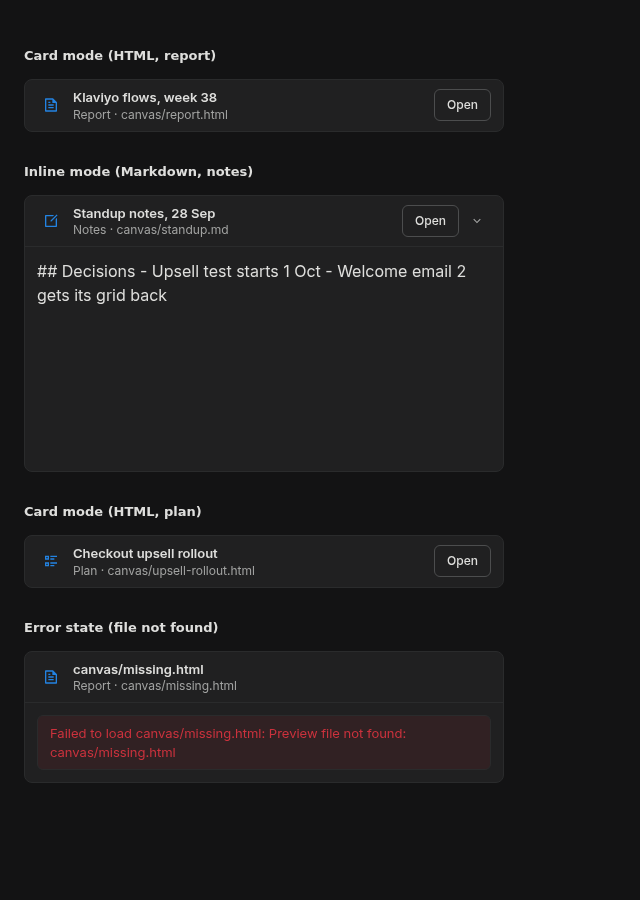
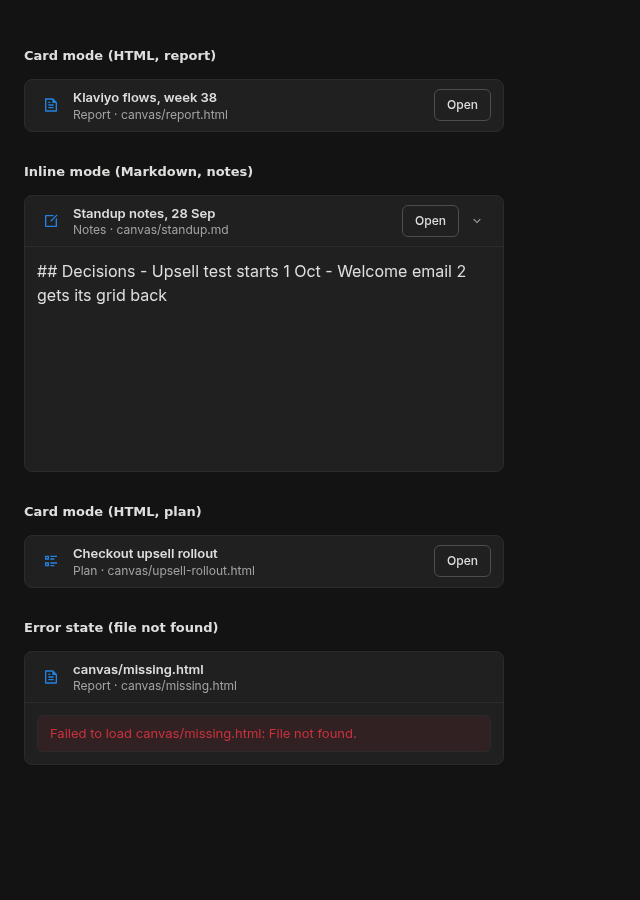
Re-sync canvas example fixtures and stop repeating the filename in errors
Re-copies plan.html, report.html, and mockup.html from the handed-off
skill package (kit.css, canvas-style.md, and SKILL.md already matched)
so the credits footer renders styled. Server errors (unsupported
extension, absolute/traversal/escaping paths, 404) no longer repeat the
file path — the client's "Failed to load <file>: <message>" wrapper
already names it once.

Changed region(s): [[0.0625, 0.8089, 0.75, 0.8711]]

diff --git a/plugins/canvas/server.ts b/plugins/canvas/server.ts
@@ -45,7 +45,7 @@ function previewKind(file: string): PreviewKind {
   const kind = PREVIEW_KIND_BY_EXTENSION.get(extension);
   if (kind === undefined) {
     throw new Error(
-      `"file" must end with .html, .htm, .md, or .markdown, got ${JSON.stringify(file)}`,
+      `"file" must end with .html, .htm, .md, or .markdown.`,
     );
   }
   return kind;
@@ -54,14 +54,14 @@ function previewKind(file: string): PreviewKind {
 export function requireRelativePreviewFile(value: unknown): string {
   const file = requireNonEmptyString(value, "file");
   if (path.isAbsolute(file)) {
-    throw new Error(`"file" must be source-relative, not absolute: ${file}`);
+    throw new Error(`"file" must be source-relative, not absolute.`);
   }
   if (/^[a-zA-Z]:[\\/]/.test(file) || file.startsWith("\\\\")) {
-    throw new Error(`"file" must be source-relative, not absolute: ${file}`);
+    throw new Error(`"file" must be source-relative, not absolute.`);
   }
   const slashNormalized = file.replace(/\\/g, "/");
   if (slashNormalized.split("/").includes("..")) {
-    throw new Error(`"file" must not contain traversal segments: ${file}`);
+    throw new Error(`"file" must not contain traversal segments.`);
   }
   const normalized = path.posix.normalize(slashNormalized);
   if (
@@ -71,7 +71,7 @@ export function requireRelativePreviewFile(value: unknown): string {
     normalized === "." ||
     normalized.startsWith("/")
   ) {
-    throw new Error(`"file" must not escape its source: ${file}`);
+    throw new Error(`"file" must not escape its source.`);
   }
   previewKind(normalized);
   return normalized;
@@ -89,7 +89,7 @@ export function resolveContainedPreviewPath(
     relative.startsWith(`..${path.sep}`) ||
     path.isAbsolute(relative)
   ) {
-    throw new Error(`"file" must not escape its source: ${relativeFile}`);
+    throw new Error(`"file" must not escape its source.`);
   }
   return absolute;
 }
@@ -214,7 +214,7 @@ export default async function plugin(bb: BbPluginApi) {
         });
       } catch (error) {
         if (httpStatus(error) === 404) {
-          throw new Error(`Preview file not found: ${file}`);
+          throw new Error(`File not found.`);
         }
         throw error;
       }

diff --git a/plugins/canvas/skills/canvas/examples/mockup.html b/plugins/canvas/skills/canvas/examples/mockup.html
@@ -232,6 +232,10 @@ pre code { background: none; padding: 0; }
 @media (max-width: 420px) { .grid, .grid-4 { grid-template-columns: 1fr; } }
 @media (prefers-reduced-motion: reduce) { * { scroll-behavior: auto; transition: none; } }
 
+/* Footer — credits line, always present */
+.page-footer { margin-top: 48px; padding-top: 16px; border-top: 1px solid var(--border); display: flex; flex-wrap: wrap; justify-content: space-between; gap: 4px 16px; font-size: 12px; line-height: 16px; color: var(--muted-foreground); }
+.page-footer strong { font-weight: 500; color: var(--foreground); }
+
 .chat { display: grid; grid-template-columns: repeat(auto-fit, minmax(300px, 1fr)); gap: 16px; }
 .pane { border: 1px solid var(--border); border-radius: var(--radius); padding: 16px; background: var(--background); }
 .pane.dark { --canvas: oklch(0.1872 0.002 286.2); --ink: oklch(0.9 0.0027 106.45); --background: var(--canvas); --foreground: var(--ink); --card: color-mix(in oklch, var(--ink) 3.5%, var(--canvas)); --card-foreground: var(--ink); --secondary: color-mix(in oklch, var(--ink) 11.4%, var(--canvas)); --secondary-foreground: var(--ink); --muted: color-mix(in oklch, var(--ink) 11.4%, var(--canvas)); --muted-foreground: color-mix(in oklch, var(--ink) 74%, var(--canvas)); --accent: color-mix(in oklch, var(--ink) 10.8%, var(--canvas)); --border: color-mix(in oklch, var(--ink) 14.3%, var(--canvas)); --tint-primary: color-mix(in oklab, var(--primary) 12%, var(--background)); background: var(--background); color: var(--foreground); }

diff --git a/plugins/canvas/app.test.tsx b/plugins/canvas/app.test.tsx
@@ -91,7 +91,7 @@ describe("CanvasDirective", () => {
     ]);
   });
 
-  it("shows an error when rpc fails, e.g. a missing file", async () => {
+  it("shows an error when rpc fails, without repeating the filename", async () => {
     const slot = renderSlot(
       directive("canvas"),
       {
@@ -103,14 +103,14 @@ describe("CanvasDirective", () => {
       {
         rpc: {
           preparePreview: () => {
-            throw new Error("Preview file not found: missing.html");
+            throw new Error("File not found.");
           },
         },
       },
     );
 
     const alert = await slot.findByRole("alert");
-    expect(alert.textContent).toMatch(/Preview file not found: missing\.html/);
+    expect(alert.textContent).toBe("Failed to load missing.html: File not found.");
     expect(slot.container.querySelector("iframe")).toBeNull();
   });
 

diff --git a/plugins/canvas/skills/canvas/examples/plan.html b/plugins/canvas/skills/canvas/examples/plan.html
@@ -231,6 +231,10 @@ pre code { background: none; padding: 0; }
 }
 @media (max-width: 420px) { .grid, .grid-4 { grid-template-columns: 1fr; } }
 @media (prefers-reduced-motion: reduce) { * { scroll-behavior: auto; transition: none; } }
+
+/* Footer — credits line, always present */
+.page-footer { margin-top: 48px; padding-top: 16px; border-top: 1px solid var(--border); display: flex; flex-wrap: wrap; justify-content: space-between; gap: 4px 16px; font-size: 12px; line-height: 16px; color: var(--muted-foreground); }
+.page-footer strong { font-weight: 500; color: var(--foreground); }
 </style>
 </head>
 <body>

diff --git a/plugins/canvas/skills/canvas/examples/report.html b/plugins/canvas/skills/canvas/examples/report.html
@@ -231,6 +231,10 @@ pre code { background: none; padding: 0; }
 }
 @media (max-width: 420px) { .grid, .grid-4 { grid-template-columns: 1fr; } }
 @media (prefers-reduced-motion: reduce) { * { scroll-behavior: auto; transition: none; } }
+
+/* Footer — credits line, always present */
+.page-footer { margin-top: 48px; padding-top: 16px; border-top: 1px solid var(--border); display: flex; flex-wrap: wrap; justify-content: space-between; gap: 4px 16px; font-size: 12px; line-height: 16px; color: var(--muted-foreground); }
+.page-footer strong { font-weight: 500; color: var(--foreground); }
 </style>
 </head>
 <body>

diff --git a/plugins/canvas/server.test.ts b/plugins/canvas/server.test.ts
@@ -374,7 +374,7 @@ describe("preparePreview rpc", () => {
         threadId: "thr_1",
         file: "gone.html",
       }),
-    ).rejects.toThrow(/not found/);
+    ).rejects.toThrow("File not found.");
 
     const binaryHost = await load({
       threads: { get: () => threadWithEnv() },
